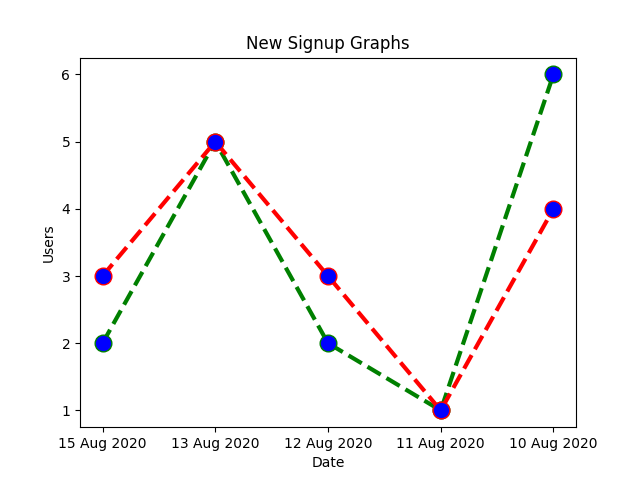
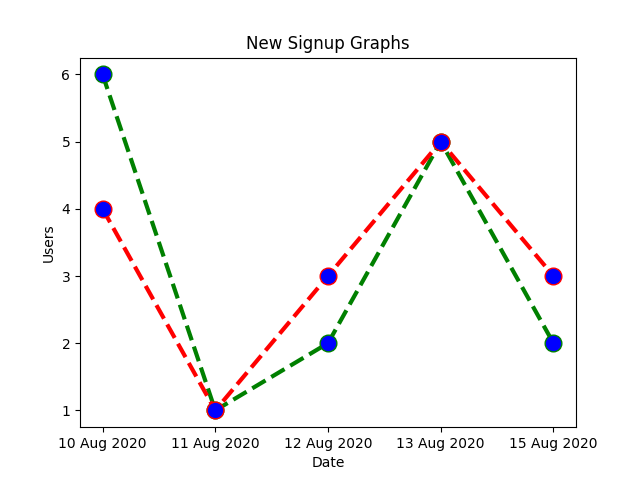
graphs fixed and beta links solved

diff --git a/project/templates/inv_beta_data.html b/project/templates/inv_beta_data.html
@@ -203,9 +203,9 @@
             <table class="table">
                 <thead class="thead-dark">
                 <tr>
+                    <th scope="col">Email</th>
                     <th scope="col">Password</th>
                     <th scope="col">Confirmation Link</th>
-                    <th scope="col">Email</th>
 
                 </tr>
                 </thead>

diff --git a/common_utilities/graphs.py b/common_utilities/graphs.py
@@ -21,7 +21,7 @@ def helper_function(inv_collection, str_collection):
 
     str_data = str_collection.objects.order_by('-id').limit(5)
     str_count = [i.count for i in str_data]
-    return dates, inv_count, str_count
+    return dates[::-1], inv_count[::-1], str_count[::-1]
 
 
 #<==================================================================================================>
